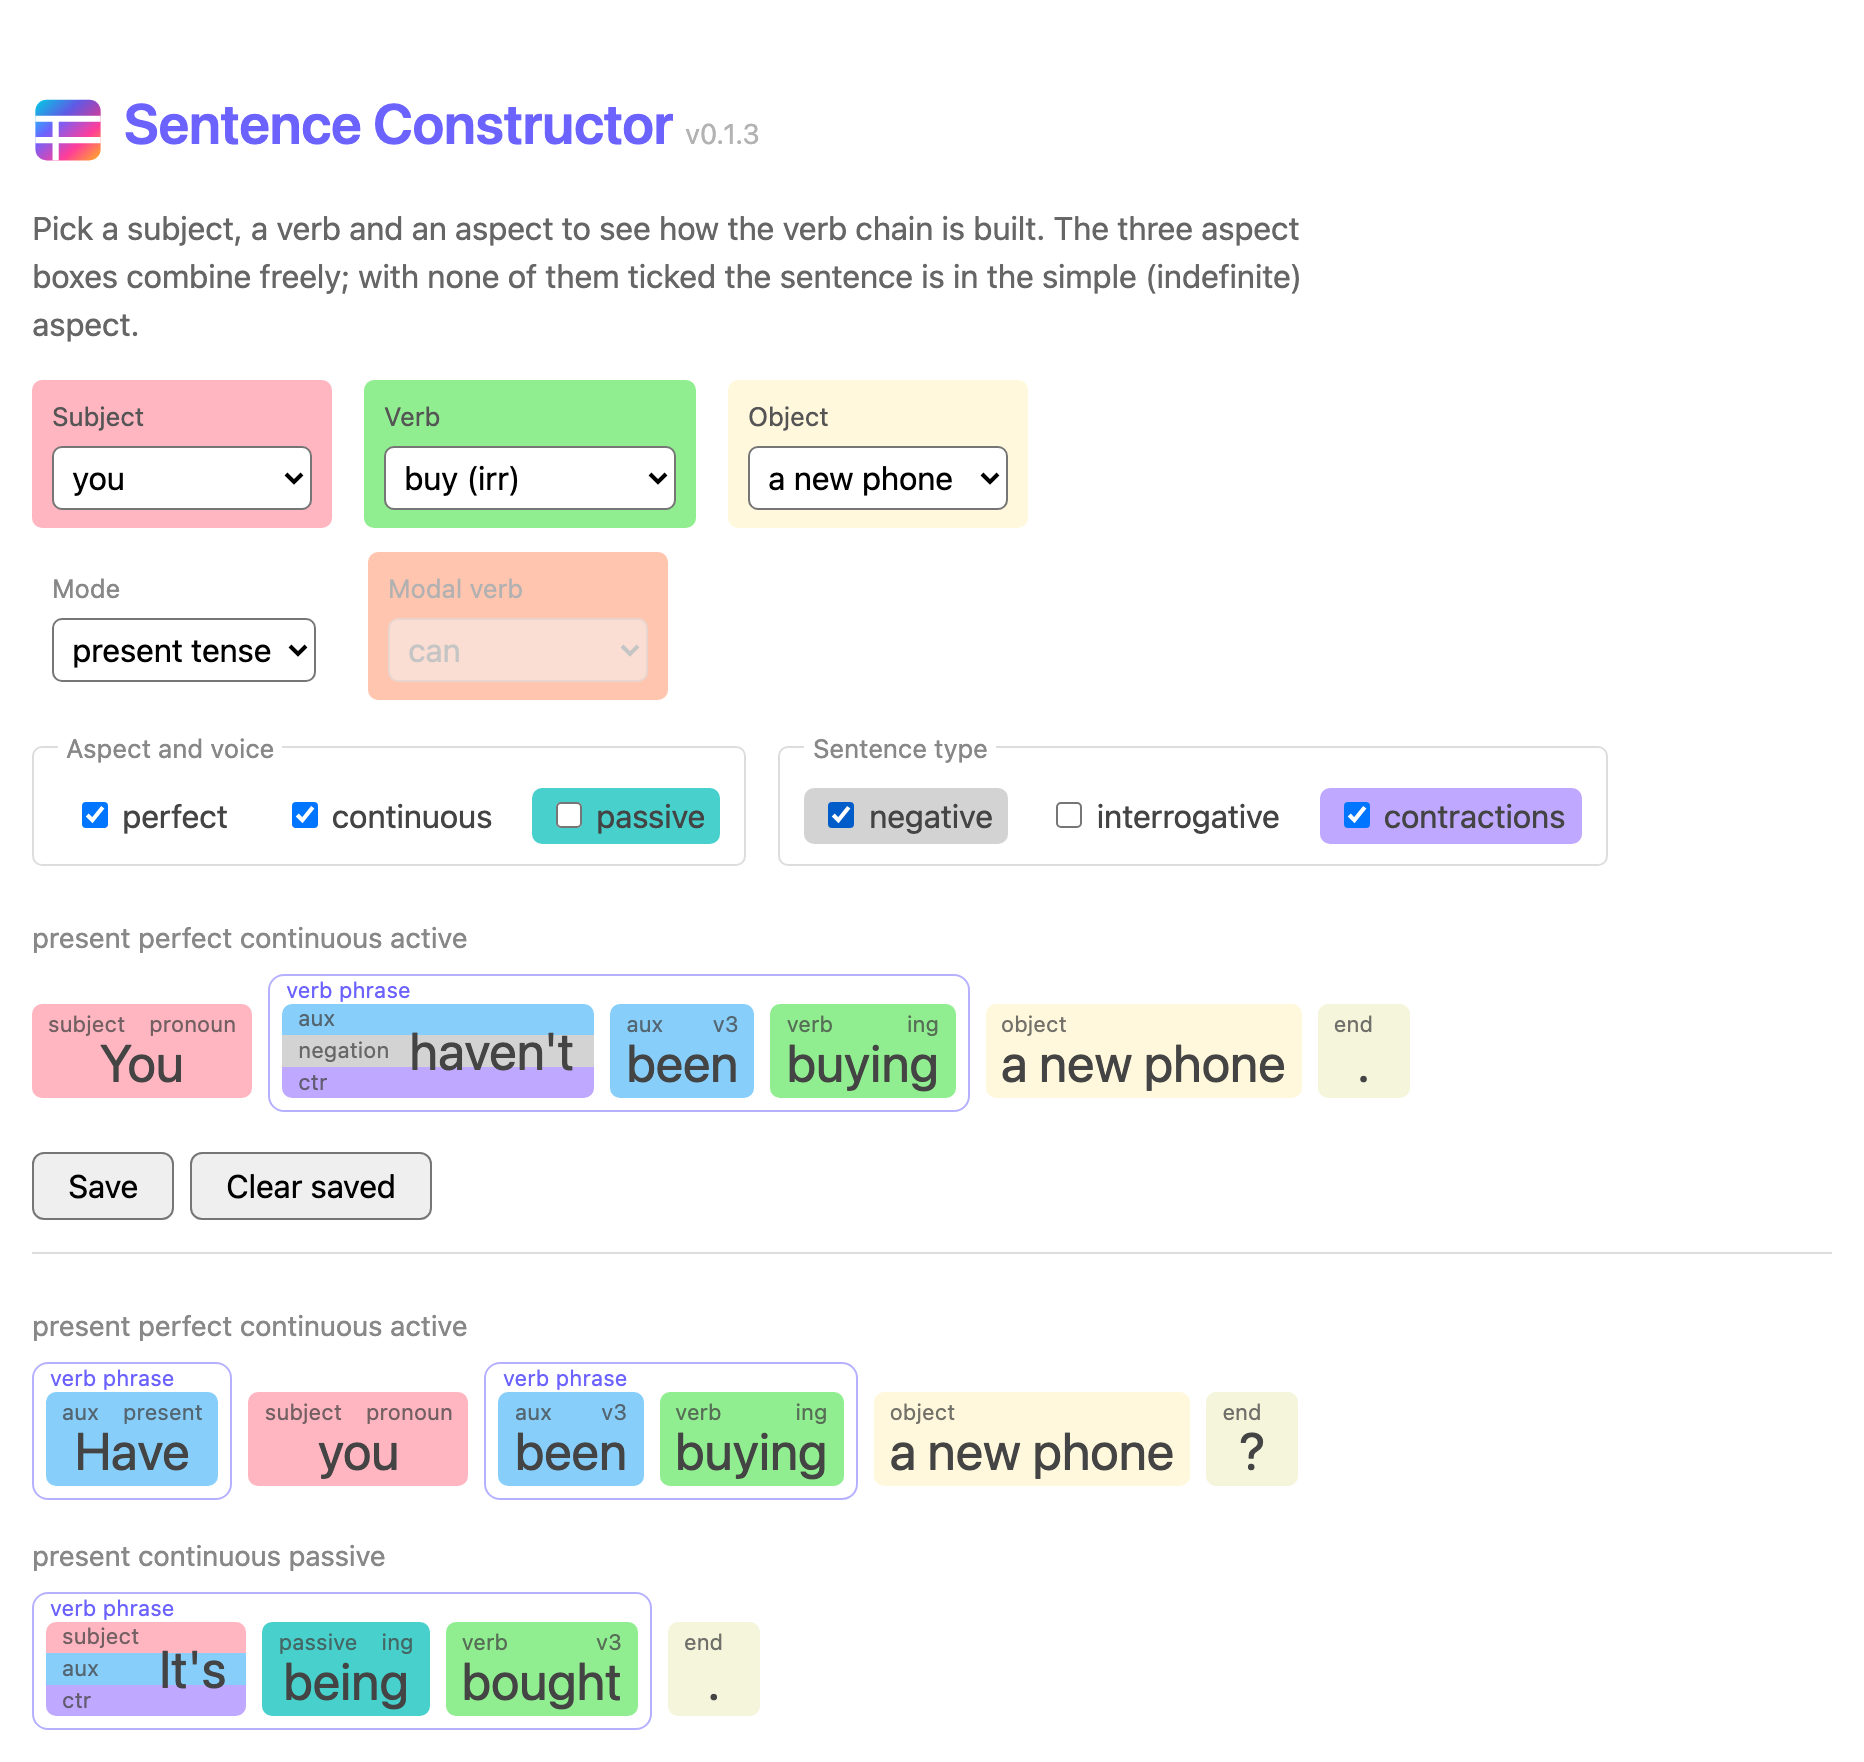
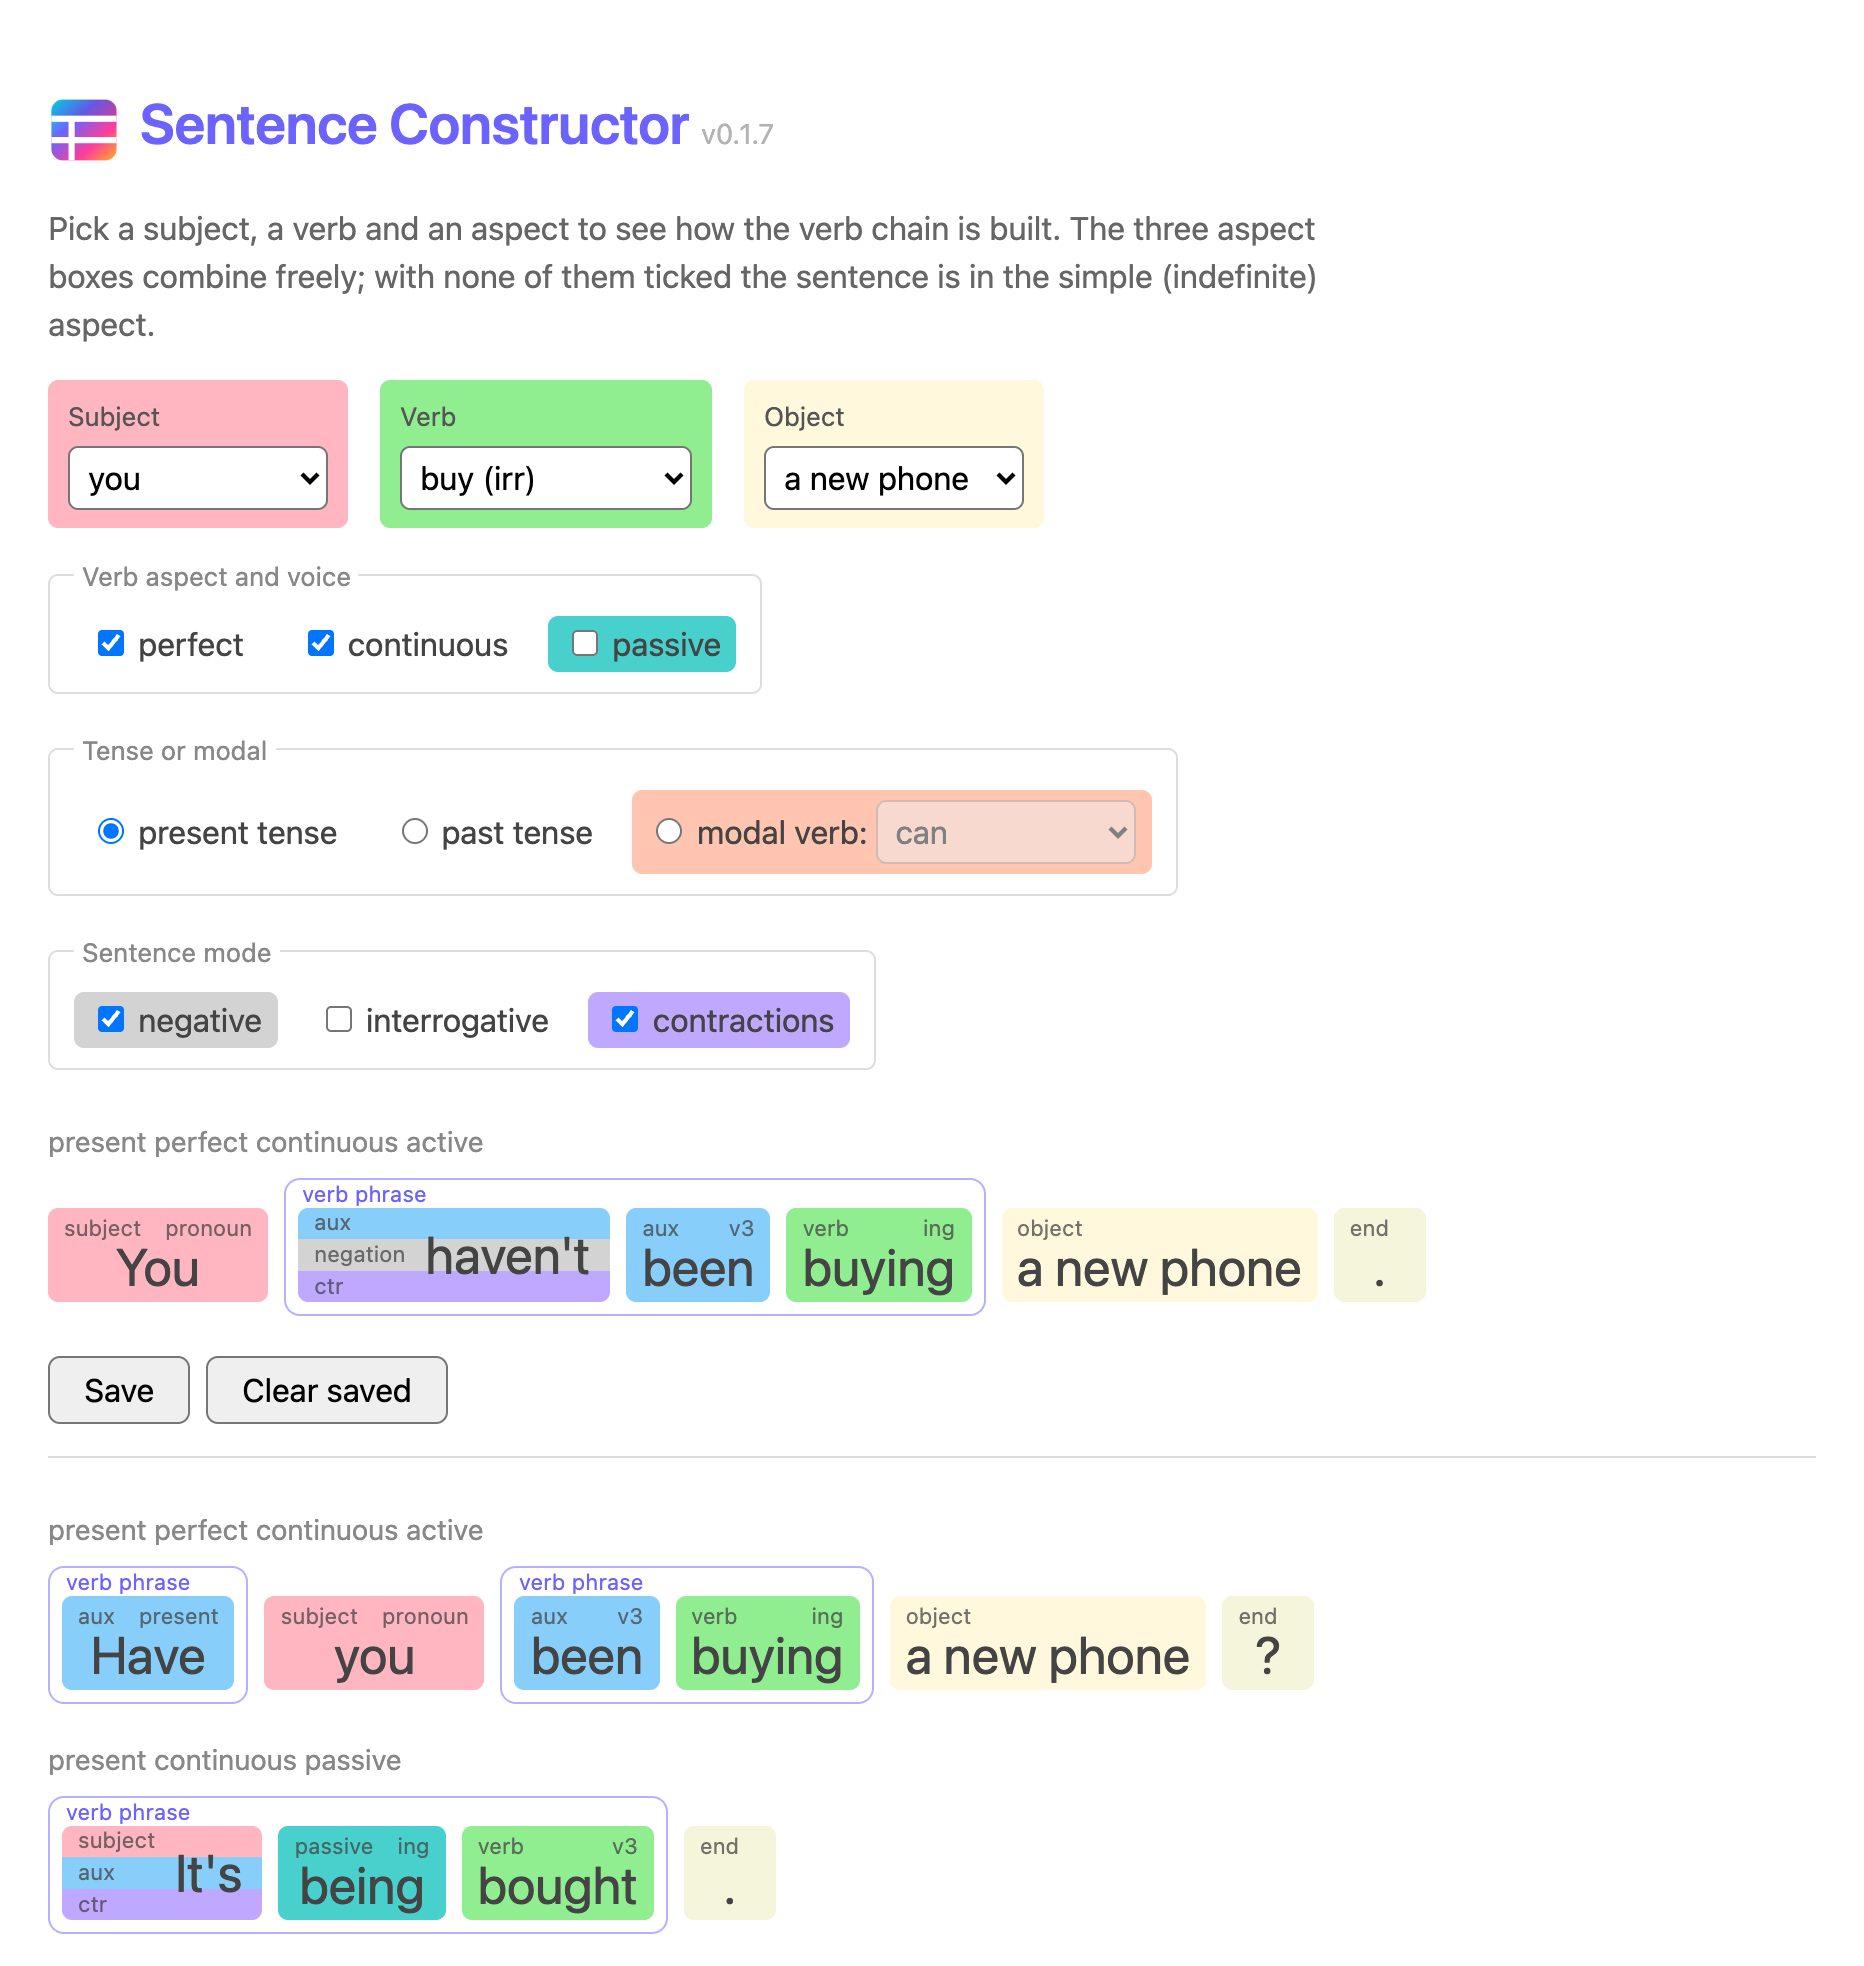
Retake the README screenshot for the new controls
The controls are now three stacked groups (verb aspect and voice, tense
or modal, sentence mode) instead of a dropdown and two side-by-side
groups. Same sentences as before, taken at v0.1.7; CLAUDE.md records
the version.

Changed region(s): [[0.0, 0.0312, 0.8712, 0.7179], [0.0, 0.7491, 0.7157, 0.9989], [0.4045, 0.9364, 0.4356, 0.9677]]

diff --git a/CLAUDE.md b/CLAUDE.md
@@ -20,7 +20,7 @@ Conventions used so far: split the work into logical commits (docs in their own)
 
 **Sentence Constructor**: a Svelte 5 + Vite + Tailwind CSS v4 + TypeScript app, live at https://axln.github.io/eng-tense-aspect/ (repository `axln/eng-tense-aspect`, public). It replaces the big English tense tables: the user picks a subject, verb, object and aspect, and it generates the sentence for every tense/aspect/voice/negation/question combination, drawing each word as a tile labelled and coloured by its grammatical role. The audience is ESL learners and their teachers. It is a static site with no backend. Yarn Classic is the package manager (`yarn.lock`); tests use vitest; there is no ESLint or Prettier. It is MIT licensed (`LICENSE`, and `"license": "MIT"` in `package.json`), copyright Alexey Nesterenko.
 
-`README.md` is for GitHub visitors, with a screenshot in `docs/screenshot.png` (taken at v0.1.3). Keep the facts in it checkable (it states 7 pronouns, 114 verbs, 11 modals) and retake the screenshot if the UI changes noticeably.
+`README.md` is for GitHub visitors, with a screenshot in `docs/screenshot.png` (taken at v0.1.7). Keep the facts in it checkable (it states 7 pronouns, 114 verbs, 11 modals) and retake the screenshot if the UI changes noticeably.
 
 ## Commands
 
